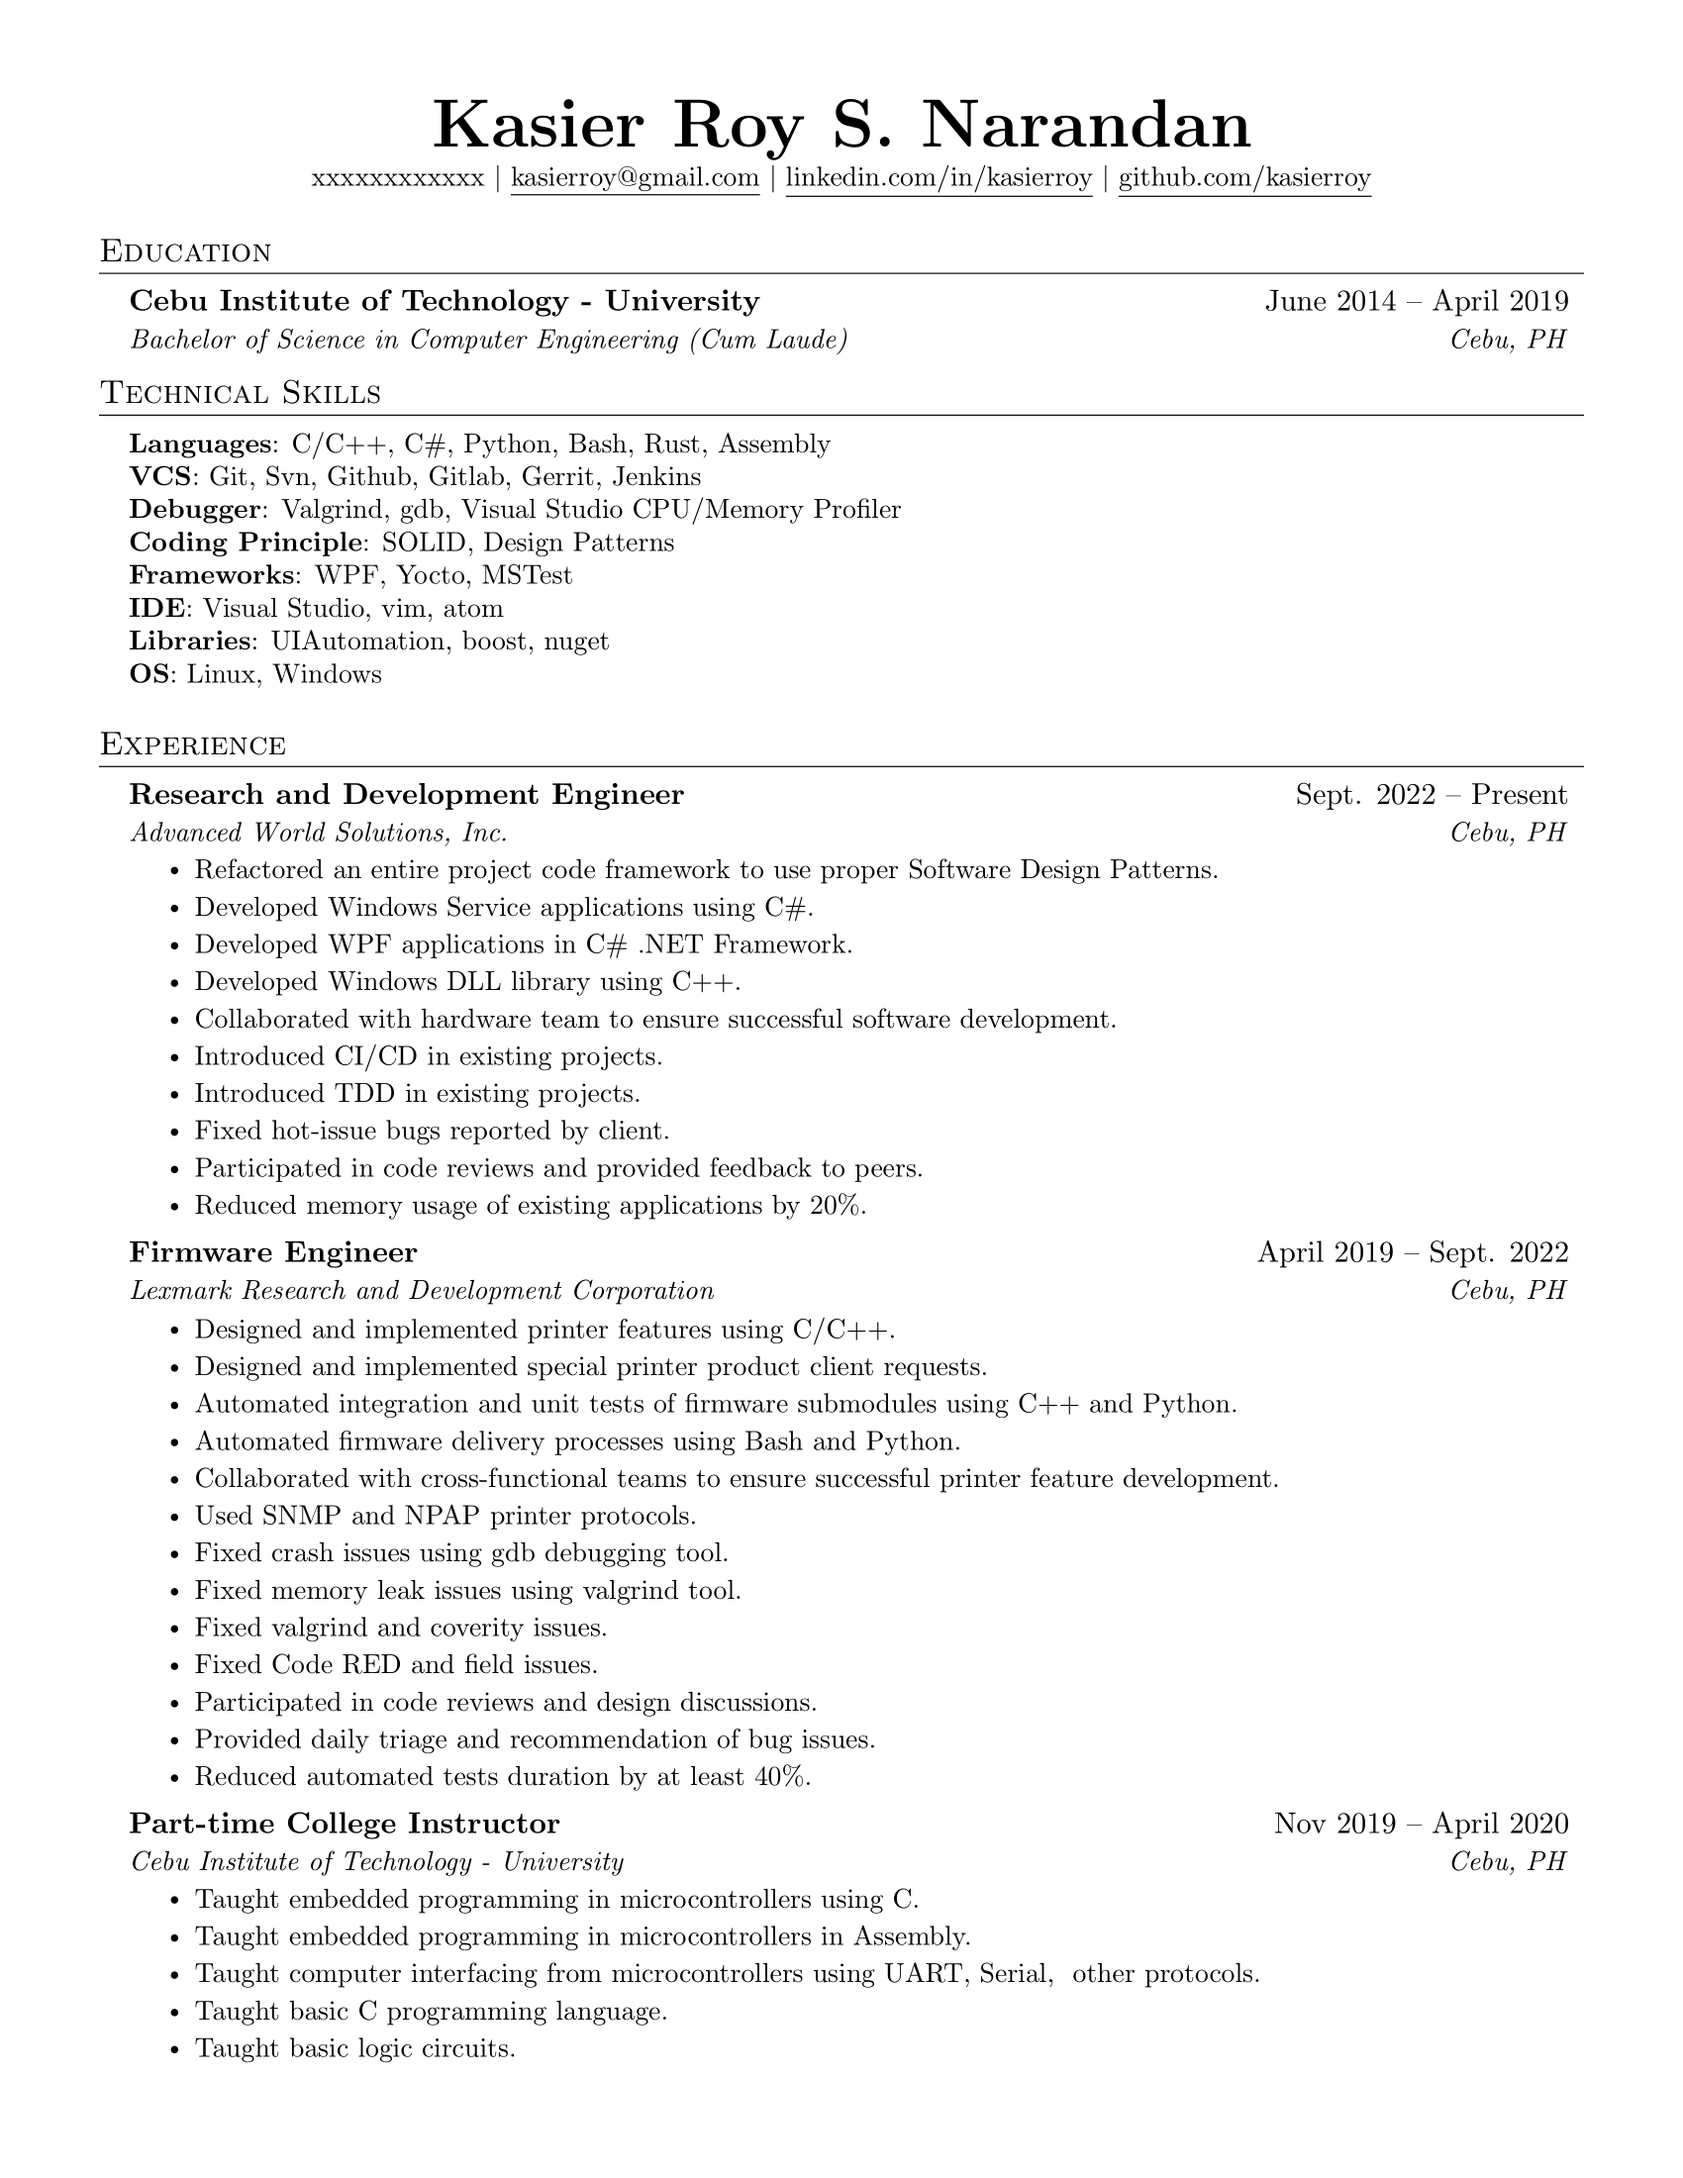
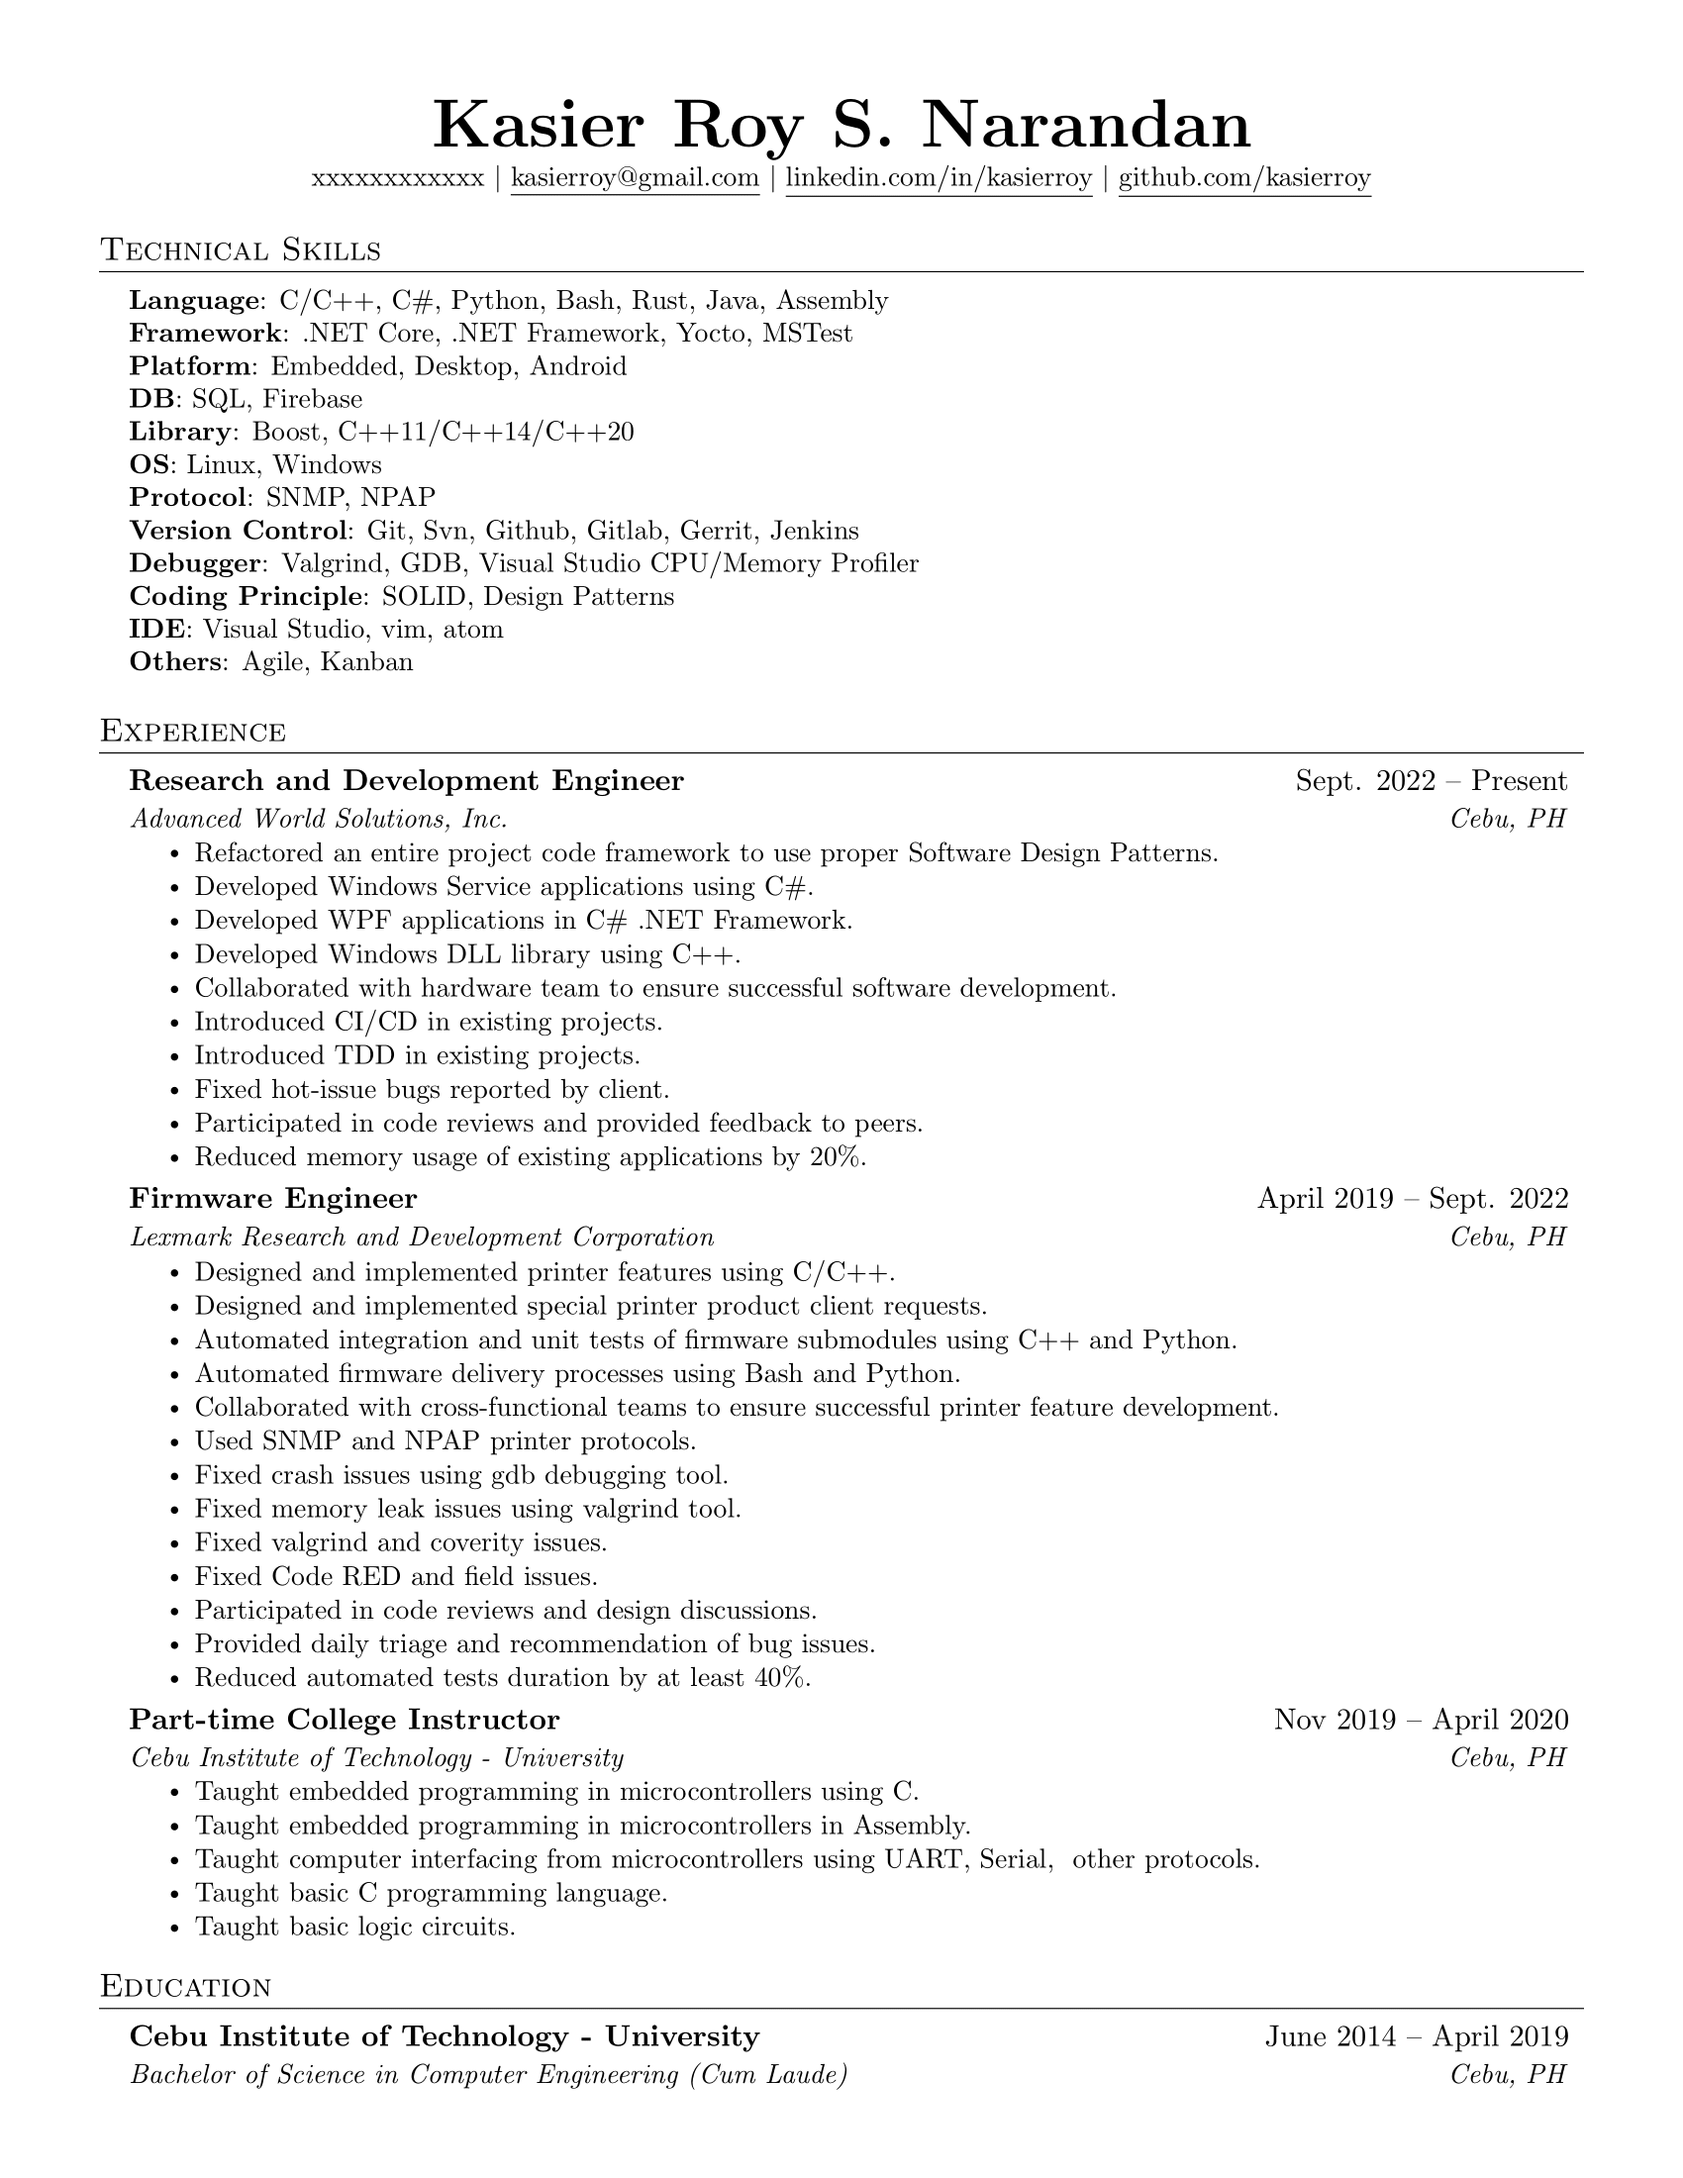
Update Resume in Technical Skills
Added new tech skills and emphasized *Technical* first.

diff --git a/resume.tex b/resume.tex
@@ -106,33 +106,29 @@
 \begin{document}
 \begin{center}
     \textbf{\Huge \scshape Kasier Roy S. Narandan} \\ \vspace{1pt}
-    \small xxxxxxxxxxxx $|$ \href{kasierroy@gmail.com}{\underline{kasierroy@gmail.com}} $|$
+    \small xxxxxxxxxxxx $|$
+    \href{kasierroy@gmail.com}{\underline{kasierroy@gmail.com}} $|$
     \href{https://linkedin.com/in/kasierroy}{\underline{linkedin.com/in/kasierroy}} $|$
     \href{https://github.com/kasierroy}{\underline{github.com/kasierroy}}
 \end{center}
 
 
-%-----------EDUCATION-----------
-\section{Education}
-  \resumeSubHeadingListStart
-    \resumeSubheading
-      {Cebu Institute of Technology - University}{June 2014 -- April 2019}
-      {Bachelor of Science in Computer Engineering (Cum Laude)}{Cebu, PH}
-  \resumeSubHeadingListEnd
-
-
-%-----------PROGRAMMING SKILLS-----------
+%-----------TECHNICAL SKILLS-----------
 \section{Technical Skills}
  \begin{itemize}[leftmargin=0.15in, label={}]
     \small{\item{
-     \textbf{Languages}{: C/C++, C\#, Python, Bash, Rust, Assembly} \\
-     \textbf{VCS}{: Git, Svn, Github, Gitlab, Gerrit, Jenkins} \\
-     \textbf{Debugger}{: Valgrind, gdb, Visual Studio CPU/Memory Profiler}\\
+     \textbf{Language}{: C/C++, C\#, Python, Bash, Rust, Java, Assembly} \\
+     \textbf{Framework}{: .NET Core, .NET Framework, Yocto, MSTest} \\
+     \textbf{Platform}{: Embedded, Desktop, Android} \\
+     \textbf{DB}{: SQL, Firebase} \\
+     \textbf{Library}{: Boost, C++11/C++14/C++20} \\
+     \textbf{OS}{: Linux, Windows} \\
+     \textbf{Protocol}{: SNMP, NPAP} \\
+     \textbf{Version Control}{: Git, Svn, Github, Gitlab, Gerrit, Jenkins} \\
+     \textbf{Debugger}{: Valgrind, GDB, Visual Studio CPU/Memory Profiler}\\
      \textbf{Coding Principle}{: SOLID, Design Patterns } \\
-     \textbf{Frameworks}{: WPF, Yocto, MSTest} \\
      \textbf{IDE}{: Visual Studio, vim, atom} \\
-     \textbf{Libraries}{: UIAutomation, boost, nuget} \\
-     \textbf{OS}{: Linux, Windows}
+     \textbf{Others}{: Agile, Kanban}
     }}
  \end{itemize}
 
@@ -188,6 +184,16 @@
       \resumeItemListEnd
 
   \resumeSubHeadingListEnd
+
+
+%-----------EDUCATION-----------
+\section{Education}
+  \resumeSubHeadingListStart
+    \resumeSubheading
+      {Cebu Institute of Technology - University}{June 2014 -- April 2019}
+      {Bachelor of Science in Computer Engineering (Cum Laude)}{Cebu, PH}
+  \resumeSubHeadingListEnd
+
 
 % TBA
 %-----------PROJECT-----------
